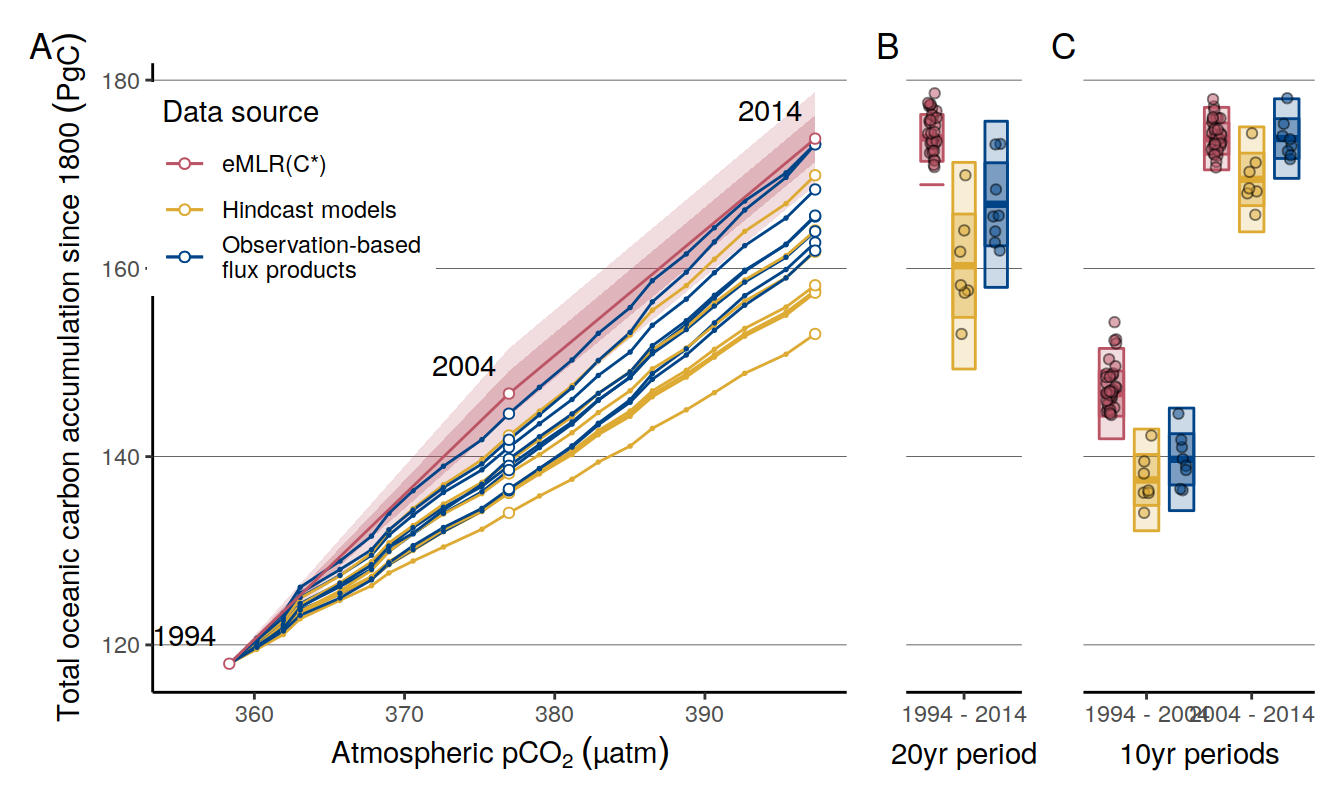
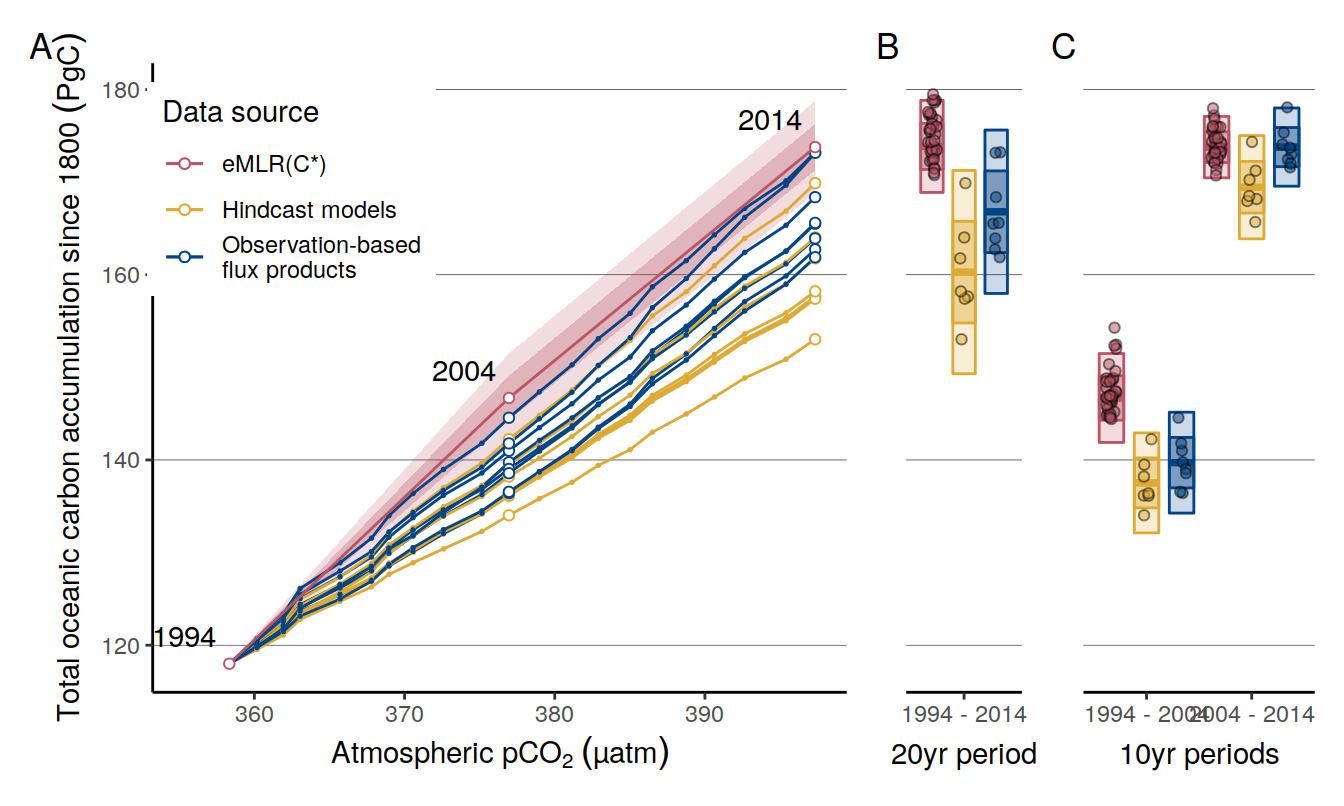
Build site.

diff --git a/docs/results_publication.html b/docs/results_publication.html
@@ -666,7 +666,7 @@ div.tocify {
 
 <h1 class="title toc-ignore">Results publication</h1>
 <h4 class="author">Jens Daniel Müller</h4>
-<h4 class="date">22 July, 2022</h4>
+<h4 class="date">24 July, 2022</h4>
 
 </div>
 
@@ -691,7 +691,7 @@ div.tocify {
 <div class="tab-content">
 <div id="summary" class="tab-pane fade in active">
 <p>
-<strong>Last updated:</strong> 2022-07-22
+<strong>Last updated:</strong> 2022-07-24
 </p>
 <p>
 <strong>Checks:</strong> <span class="glyphicon glyphicon-ok text-success" aria-hidden="true"></span> 7 <span class="glyphicon glyphicon-exclamation-sign text-danger" aria-hidden="true"></span> 0
@@ -782,16 +782,16 @@ This reproducible <a href="https://rmarkdown.rstudio.com">R Markdown</a> analysi
 <div class="panel panel-default">
 <div class="panel-heading">
 <p class="panel-title">
-<a data-toggle="collapse" data-parent="#workflowr-checks" href="#strongRepositoryversionstrongahrefhttpsgithubcomjensdanielmuelleremlrobsanalysistreea9c8af4c2b79716286356597609888540eba196etargetblanka9c8af4a"> <span class="glyphicon glyphicon-ok text-success" aria-hidden="true"></span> <strong>Repository version:</strong> <a href="https://github.com/jens-daniel-mueller/emlr_obs_analysis/tree/a9c8af4c2b79716286356597609888540eba196e" target="_blank">a9c8af4</a> </a>
+<a data-toggle="collapse" data-parent="#workflowr-checks" href="#strongRepositoryversionstrongahrefhttpsgithubcomjensdanielmuelleremlrobsanalysistreeb2c4ff6f12f8da7dc468b1182802510d83a0f693targetblankb2c4ff6a"> <span class="glyphicon glyphicon-ok text-success" aria-hidden="true"></span> <strong>Repository version:</strong> <a href="https://github.com/jens-daniel-mueller/emlr_obs_analysis/tree/b2c4ff6f12f8da7dc468b1182802510d83a0f693" target="_blank">b2c4ff6</a> </a>
 </p>
 </div>
[2 lines of base64/hex data omitted]
 <div class="panel-body">
 <p>
 Great! You are using Git for version control. Tracking code development and connecting the code version to the results is critical for reproducibility.
 </p>
 <p>
-The results in this page were generated with repository version <a href="https://github.com/jens-daniel-mueller/emlr_obs_analysis/tree/a9c8af4c2b79716286356597609888540eba196e" target="_blank">a9c8af4</a>. See the <em>Past versions</em> tab to see a history of the changes made to the R Markdown and HTML files.
+The results in this page were generated with repository version <a href="https://github.com/jens-daniel-mueller/emlr_obs_analysis/tree/b2c4ff6f12f8da7dc468b1182802510d83a0f693" target="_blank">b2c4ff6</a>. See the <em>Past versions</em> tab to see a history of the changes made to the R Markdown and HTML files.
 </p>
 <p>
 Note that you need to be careful to ensure that all relevant files for the analysis have been committed to Git prior to generating the results (you can use <code>wflow_publish</code> or <code>wflow_git_commit</code>). workflowr only checks the R Markdown file, but you know if there are other scripts or data files that it depends on. Below is the status of the Git repository when the results were generated:
@@ -849,6 +849,40 @@ Message
 </tr>
 </thead>
 <tbody>
+<tr>
+<td>
+Rmd
+</td>
+<td>
+<a href="https://github.com/jens-daniel-mueller/emlr_obs_analysis/blob/b2c4ff6f12f8da7dc468b1182802510d83a0f693/analysis/results_publication.Rmd" target="_blank">b2c4ff6</a>
+</td>
+<td>
+jens-daniel-mueller
+</td>
+<td>
+2022-07-24
+</td>
+<td>
+revised GCB plot
+</td>
+</tr>
+<tr>
+<td>
+html
+</td>
+<td>
+<a href="https://rawcdn.githack.com/jens-daniel-mueller/emlr_obs_analysis/e2adac60bb924c05a88d3a47f58b6bbc79ae3fd5/docs/results_publication.html" target="_blank">e2adac6</a>
+</td>
+<td>
+jens-daniel-mueller
+</td>
+<td>
+2022-07-22
+</td>
+<td>
+Build site.
+</td>
+</tr>
 <tr>
 <td>
 Rmd
@@ -5377,6 +5411,11 @@ dcant_budget_lon_grid_all &lt;- dcant_budget_lon_grid_all %&gt;%
               values_from = value) %&gt;%
   filter(period != &quot;1994 - 2014&quot;,
          method == &quot;total&quot;)</code></pre>
+<pre class="r"><code>dcant_inv_all %&gt;% 
+  filter(Version_ID == &quot;v_1103&quot;,
+         data_source == &quot;obs&quot;) %&gt;% 
+  select(lon, lat, dcant) %&gt;% 
+  write_csv(here::here(&quot;output/dcant_column_inventor_example.csv&quot;))</code></pre>
 </div>
 <div id="sections-profiles" class="section level2" number="2.5">
 <h2><span class="header-section-number">2.5</span> Sections / profiles</h2>
@@ -6819,10 +6858,10 @@ jens-daniel-mueller
 </table>
 </div>
 </div>
-<pre class="r"><code>ggsave(path = here::here(&quot;output/publication&quot;),
-       filename = &quot;FigS_dcant_column_inventory_ensemble_standard_deviation.png&quot;,
-       height = 6,
-       width = 6)</code></pre>
+<pre class="r"><code># ggsave(path = here::here(&quot;output/publication&quot;),
+#        filename = &quot;FigS_dcant_column_inventory_ensemble_standard_deviation.png&quot;,
+#        height = 6,
+#        width = 6)</code></pre>
 </div>
 <div id="unadjusted-data" class="section level3" number="7.1.4">
 <h3><span class="header-section-number">7.1.4</span> Unadjusted data</h3>
@@ -7679,6 +7718,17 @@ Date
 <tbody>
 <tr>
 <td>
+<a href="https://github.com/jens-daniel-mueller/emlr_obs_analysis/blob/e2adac60bb924c05a88d3a47f58b6bbc79ae3fd5/docs/figure/results_publication.Rmd/zonal_sections-1.png" target="_blank">e2adac6</a>
+</td>
+<td>
+jens-daniel-mueller
+</td>
+<td>
+2022-07-22
+</td>
+</tr>
+<tr>
+<td>
 <a href="https://github.com/jens-daniel-mueller/emlr_obs_analysis/blob/fea41c1b8dcf55dd33f32ab73fabb10bbb5bf139/docs/figure/results_publication.Rmd/zonal_sections-1.png" target="_blank">fea41c1</a>
 </td>
 <td>
@@ -7991,6 +8041,17 @@ Date
 <tbody>
 <tr>
 <td>
+<a href="https://github.com/jens-daniel-mueller/emlr_obs_analysis/blob/e2adac60bb924c05a88d3a47f58b6bbc79ae3fd5/docs/figure/results_publication.Rmd/inventory_maps_absolute_delta-1.png" target="_blank">e2adac6</a>
+</td>
+<td>
+jens-daniel-mueller
+</td>
+<td>
+2022-07-22
+</td>
+</tr>
+<tr>
+<td>
 <a href="https://github.com/jens-daniel-mueller/emlr_obs_analysis/blob/fea41c1b8dcf55dd33f32ab73fabb10bbb5bf139/docs/figure/results_publication.Rmd/inventory_maps_absolute_delta-1.png" target="_blank">fea41c1</a>
 </td>
 <td>
@@ -8260,6 +8321,17 @@ Date
 </tr>
 </thead>
 <tbody>
+<tr>
+<td>
+<a href="https://github.com/jens-daniel-mueller/emlr_obs_analysis/blob/e2adac60bb924c05a88d3a47f58b6bbc79ae3fd5/docs/figure/results_publication.Rmd/inventory_maps_absolute_delta-2.png" target="_blank">e2adac6</a>
+</td>
+<td>
+jens-daniel-mueller
+</td>
+<td>
+2022-07-22
+</td>
+</tr>
 <tr>
 <td>
 <a href="https://github.com/jens-daniel-mueller/emlr_obs_analysis/blob/fea41c1b8dcf55dd33f32ab73fabb10bbb5bf139/docs/figure/results_publication.Rmd/inventory_maps_absolute_delta-2.png" target="_blank">fea41c1</a>
@@ -8566,6 +8638,17 @@ Date
 </tr>
 </thead>
 <tbody>
+<tr>
+<td>
+<a href="https://github.com/jens-daniel-mueller/emlr_obs_analysis/blob/e2adac60bb924c05a88d3a47f58b6bbc79ae3fd5/docs/figure/results_publication.Rmd/inventory_maps_absolute_delta-3.png" target="_blank">e2adac6</a>
+</td>
+<td>
+jens-daniel-mueller
+</td>
+<td>
+2022-07-22
+</td>
+</tr>
 <tr>
 <td>
 <a href="https://github.com/jens-daniel-mueller/emlr_obs_analysis/blob/fea41c1b8dcf55dd33f32ab73fabb10bbb5bf139/docs/figure/results_publication.Rmd/inventory_maps_absolute_delta-3.png" target="_blank">fea41c1</a>
@@ -20638,7 +20721,7 @@ Ocean_Sink_cum_2004 &lt;- Ocean_Sink_cum_2004 %&gt;%
 tcant_min = tcant_ts_zoom %&gt;% pull(tcant) %&gt;% min()
 tcant_max =
   tcant_ts_zoom %&gt;% pull(tcant) %&gt;% max() +
-  tcant_ts_zoom %&gt;% pull(dcant_sd) %&gt;% max()
+  tcant_ts_zoom %&gt;% pull(dcant_sd) %&gt;% max() + 1
 
 
 p_tcant_ts_zoom &lt;-

diff --git a/docs/index.html b/docs/index.html
@@ -582,7 +582,7 @@ $(document).ready(function () {
 
 <h1 class="title toc-ignore">Home</h1>
 <h4 class="author">Jens Daniel Müller</h4>
-<h4 class="date">22 July, 2022</h4>
+<h4 class="date">24 July, 2022</h4>
 
 </div>
 
@@ -607,7 +607,7 @@ $(document).ready(function () {
 <div class="tab-content">
 <div id="summary" class="tab-pane fade in active">
 <p>
-<strong>Last updated:</strong> 2022-07-22
+<strong>Last updated:</strong> 2022-07-24
 </p>
 <p>
 <strong>Checks:</strong> <span class="glyphicon glyphicon-ok text-success" aria-hidden="true"></span> 7 <span class="glyphicon glyphicon-exclamation-sign text-danger" aria-hidden="true"></span> 0
@@ -698,16 +698,16 @@ This reproducible <a href="https://rmarkdown.rstudio.com">R Markdown</a> analysi
 <div class="panel panel-default">
 <div class="panel-heading">
 <p class="panel-title">
-<a data-toggle="collapse" data-parent="#workflowr-checks" href="#strongRepositoryversionstrongahrefhttpsgithubcomjensdanielmuelleremlrobsanalysistreea9c8af4c2b79716286356597609888540eba196etargetblanka9c8af4a"> <span class="glyphicon glyphicon-ok text-success" aria-hidden="true"></span> <strong>Repository version:</strong> <a href="https://github.com/jens-daniel-mueller/emlr_obs_analysis/tree/a9c8af4c2b79716286356597609888540eba196e" target="_blank">a9c8af4</a> </a>
+<a data-toggle="collapse" data-parent="#workflowr-checks" href="#strongRepositoryversionstrongahrefhttpsgithubcomjensdanielmuelleremlrobsanalysistreeb2c4ff6f12f8da7dc468b1182802510d83a0f693targetblankb2c4ff6a"> <span class="glyphicon glyphicon-ok text-success" aria-hidden="true"></span> <strong>Repository version:</strong> <a href="https://github.com/jens-daniel-mueller/emlr_obs_analysis/tree/b2c4ff6f12f8da7dc468b1182802510d83a0f693" target="_blank">b2c4ff6</a> </a>
 </p>
 </div>
[2 lines of base64/hex data omitted]
 <div class="panel-body">
 <p>
 Great! You are using Git for version control. Tracking code development and connecting the code version to the results is critical for reproducibility.
 </p>
 <p>
-The results in this page were generated with repository version <a href="https://github.com/jens-daniel-mueller/emlr_obs_analysis/tree/a9c8af4c2b79716286356597609888540eba196e" target="_blank">a9c8af4</a>. See the <em>Past versions</em> tab to see a history of the changes made to the R Markdown and HTML files.
+The results in this page were generated with repository version <a href="https://github.com/jens-daniel-mueller/emlr_obs_analysis/tree/b2c4ff6f12f8da7dc468b1182802510d83a0f693" target="_blank">b2c4ff6</a>. See the <em>Past versions</em> tab to see a history of the changes made to the R Markdown and HTML files.
 </p>
 <p>
 Note that you need to be careful to ensure that all relevant files for the analysis have been committed to Git prior to generating the results (you can use <code>wflow_publish</code> or <code>wflow_git_commit</code>). workflowr only checks the R Markdown file, but you know if there are other scripts or data files that it depends on. Below is the status of the Git repository when the results were generated:
@@ -765,6 +765,23 @@ Message
 </tr>
 </thead>
 <tbody>
+<tr>
+<td>
+html
+</td>
+<td>
+<a href="https://rawcdn.githack.com/jens-daniel-mueller/emlr_obs_analysis/e2adac60bb924c05a88d3a47f58b6bbc79ae3fd5/docs/index.html" target="_blank">e2adac6</a>
+</td>
+<td>
+jens-daniel-mueller
+</td>
+<td>
+2022-07-22
+</td>
+<td>
+Build site.
+</td>
+</tr>
 <tr>
 <td>
 html
